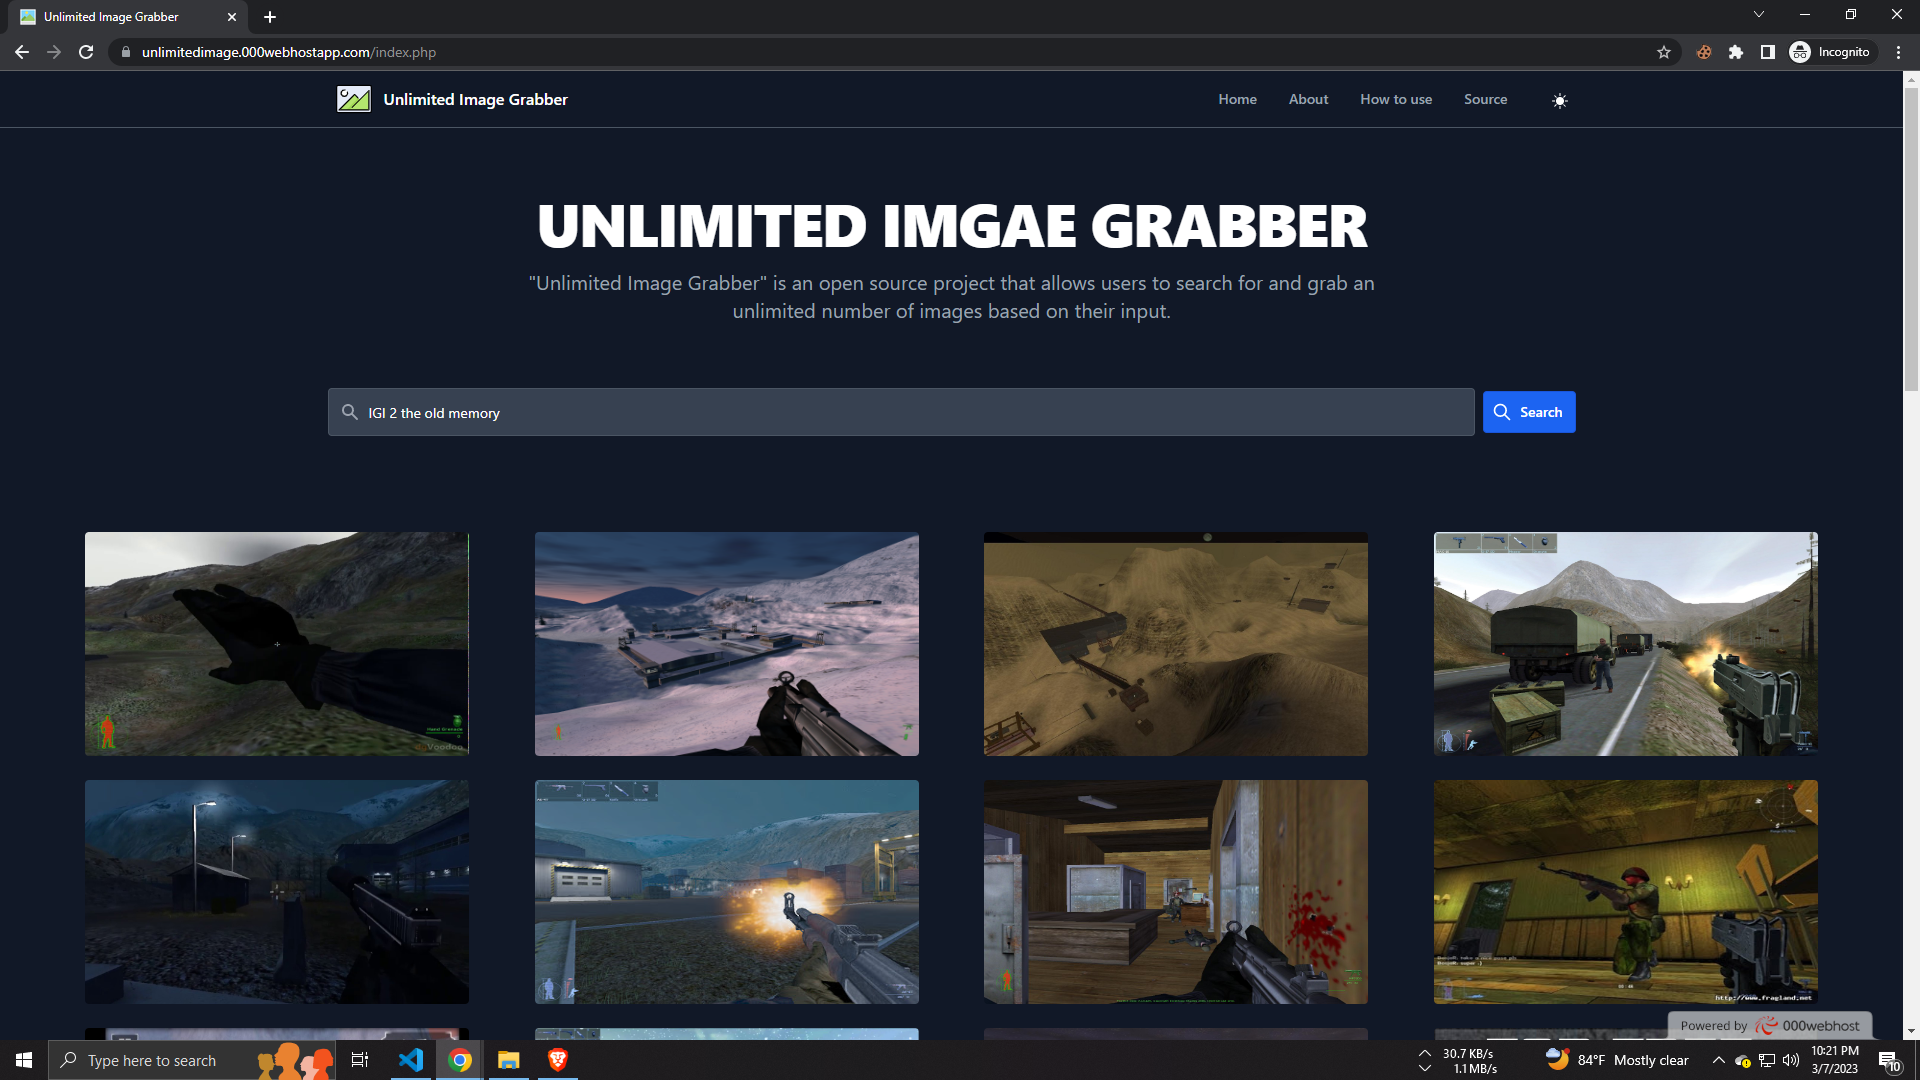
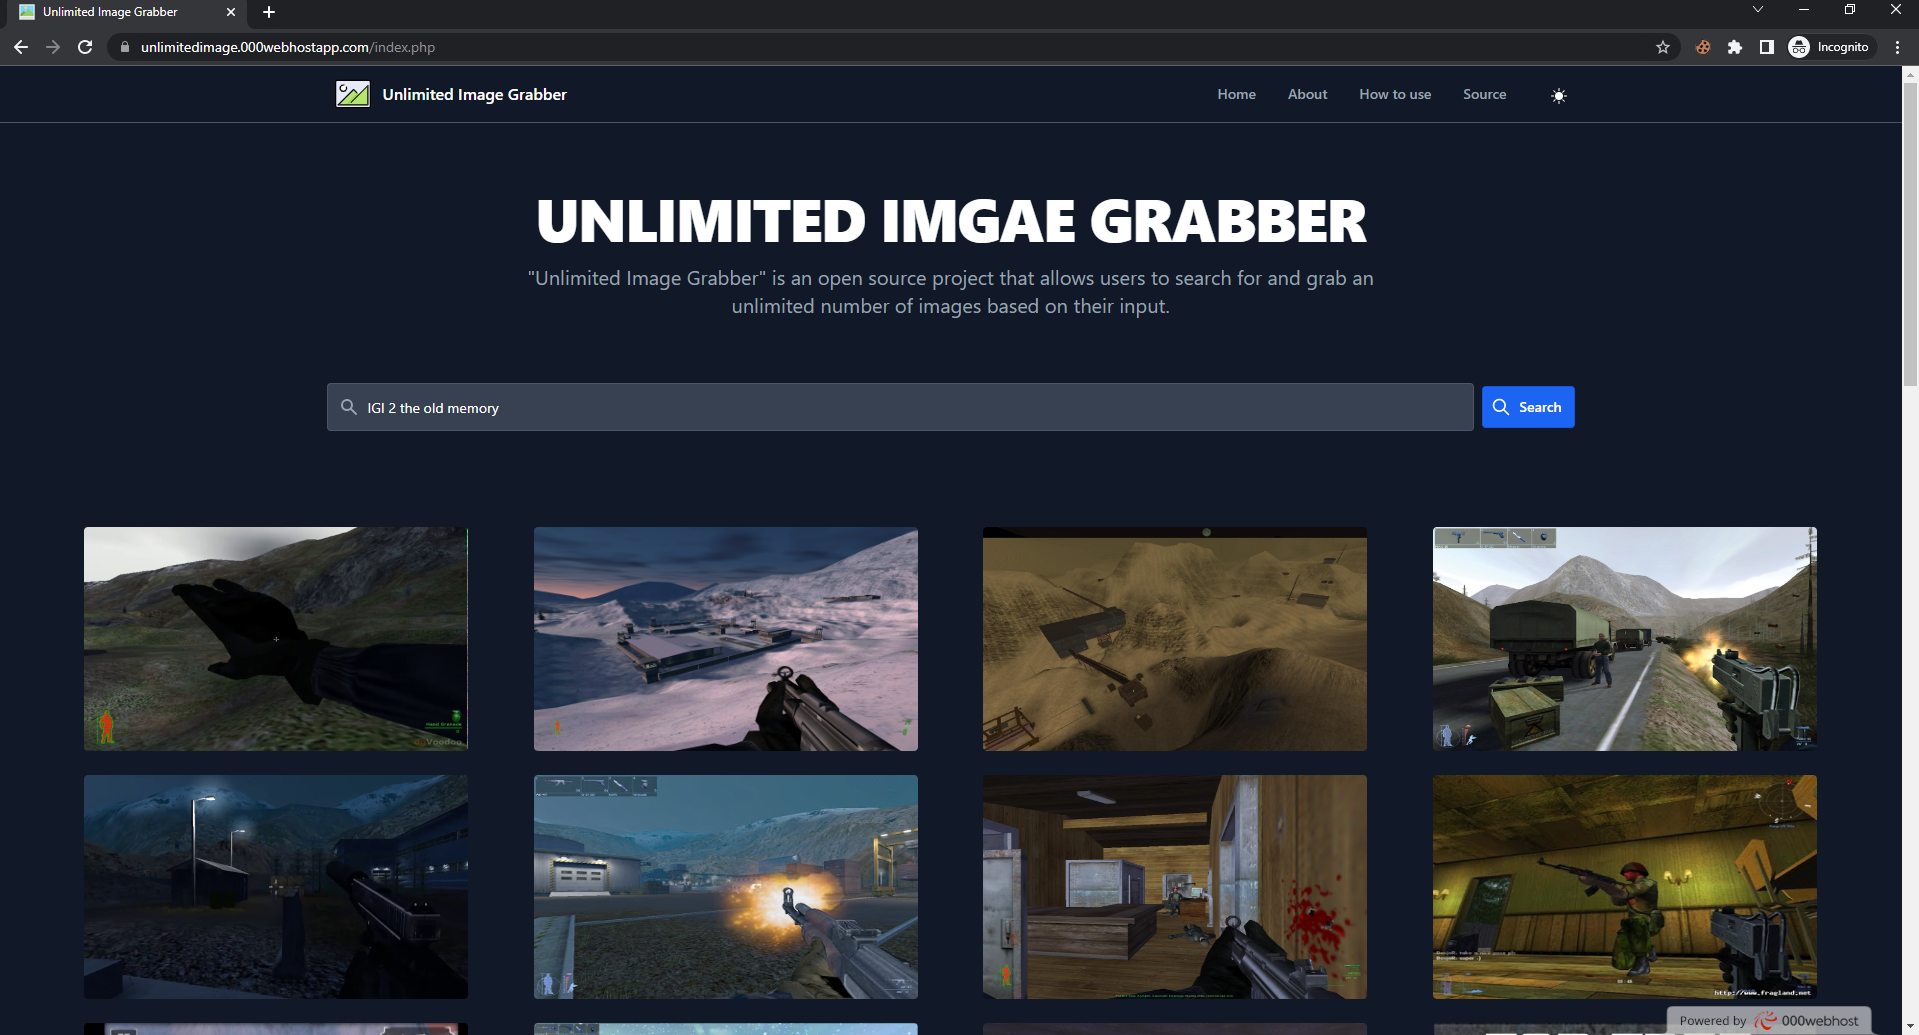
added readme

diff --git a/readme.md b/readme.md
@@ -72,6 +72,10 @@ There are some limitation
 
 - Sometimes some of images cannot be displayed.
 
+`Example:`
+
+![Alt Text](demos/uig_2.png)
+
 
 ## Most Important Note:
 - This project isn't  more secure to use as a website.
